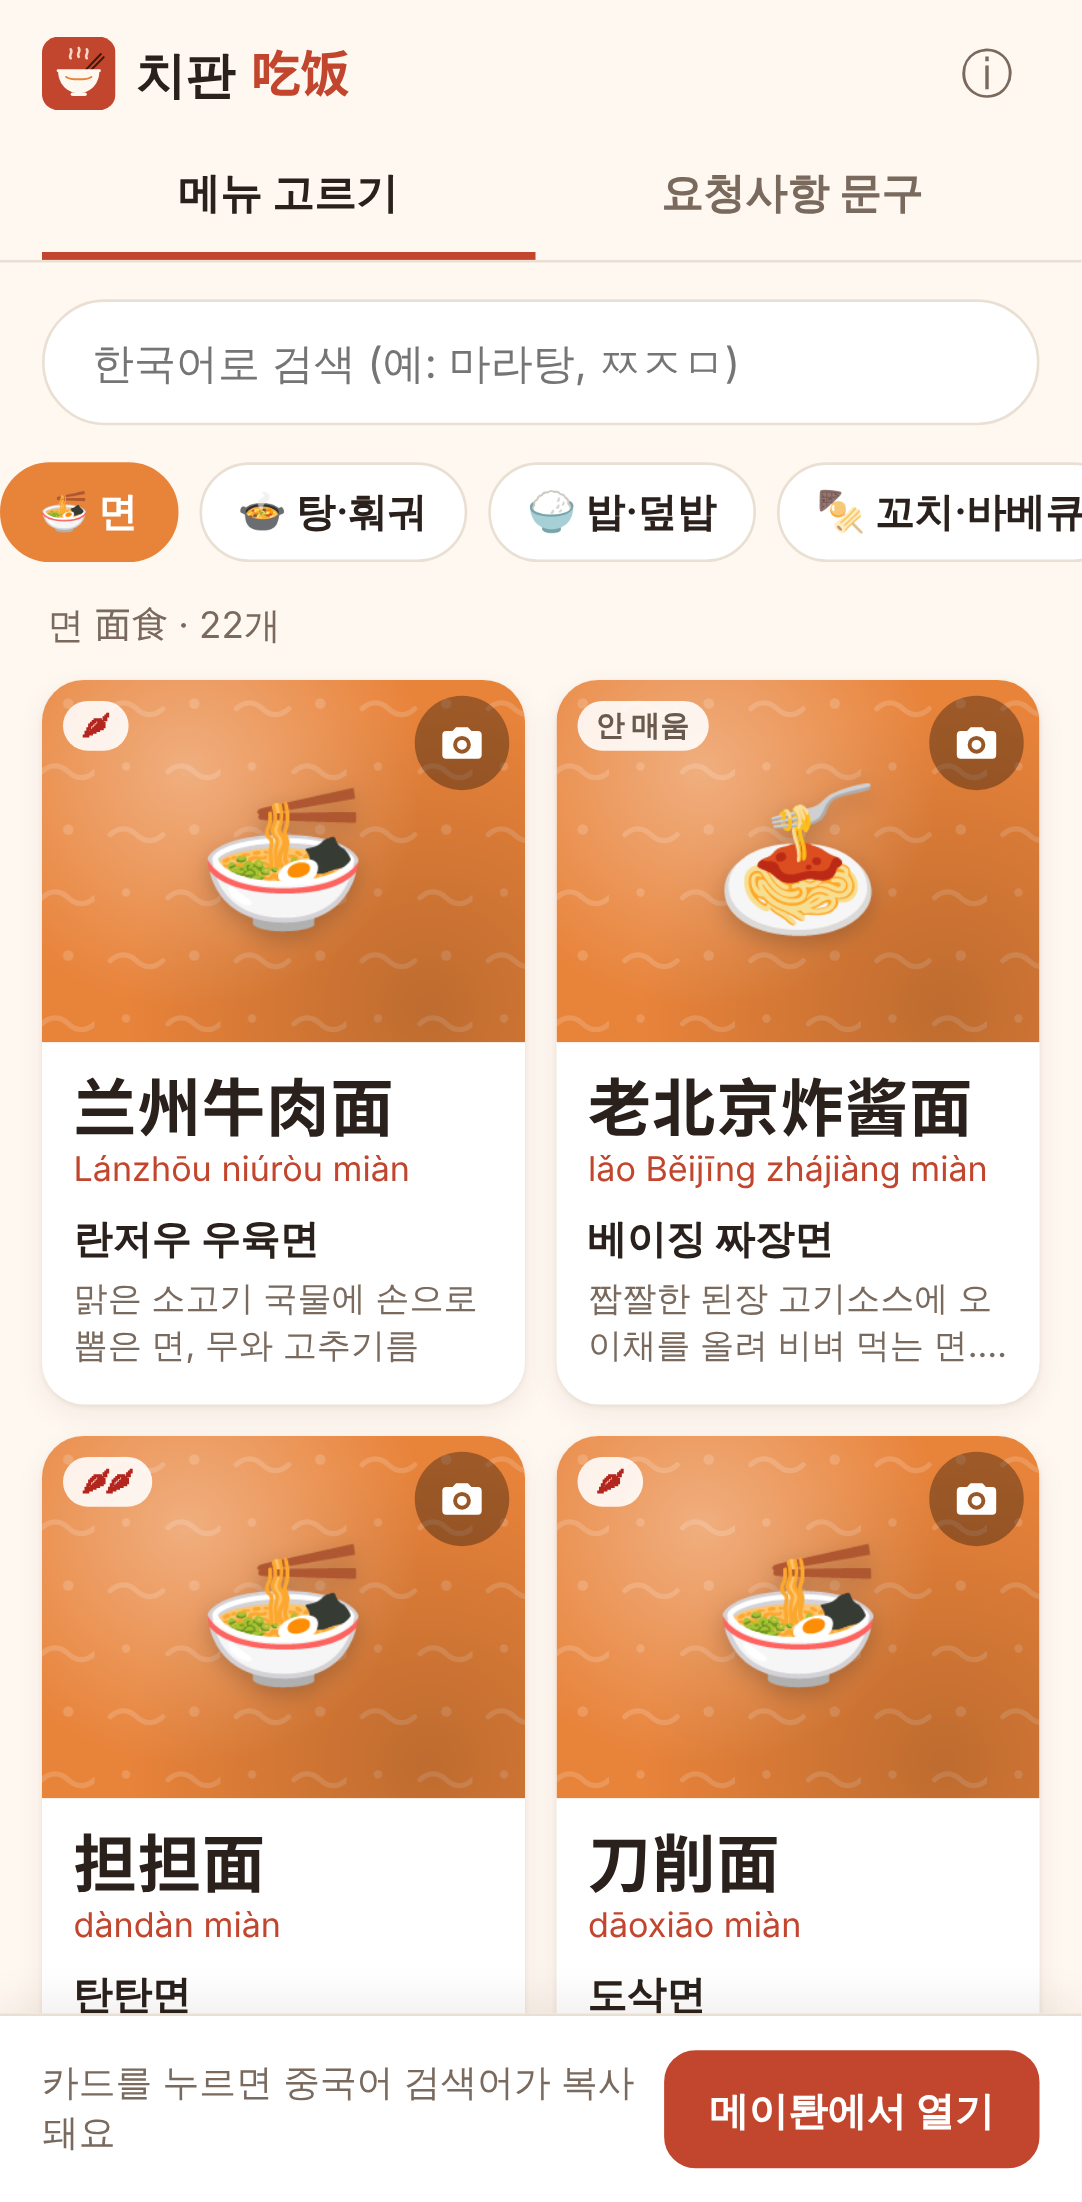
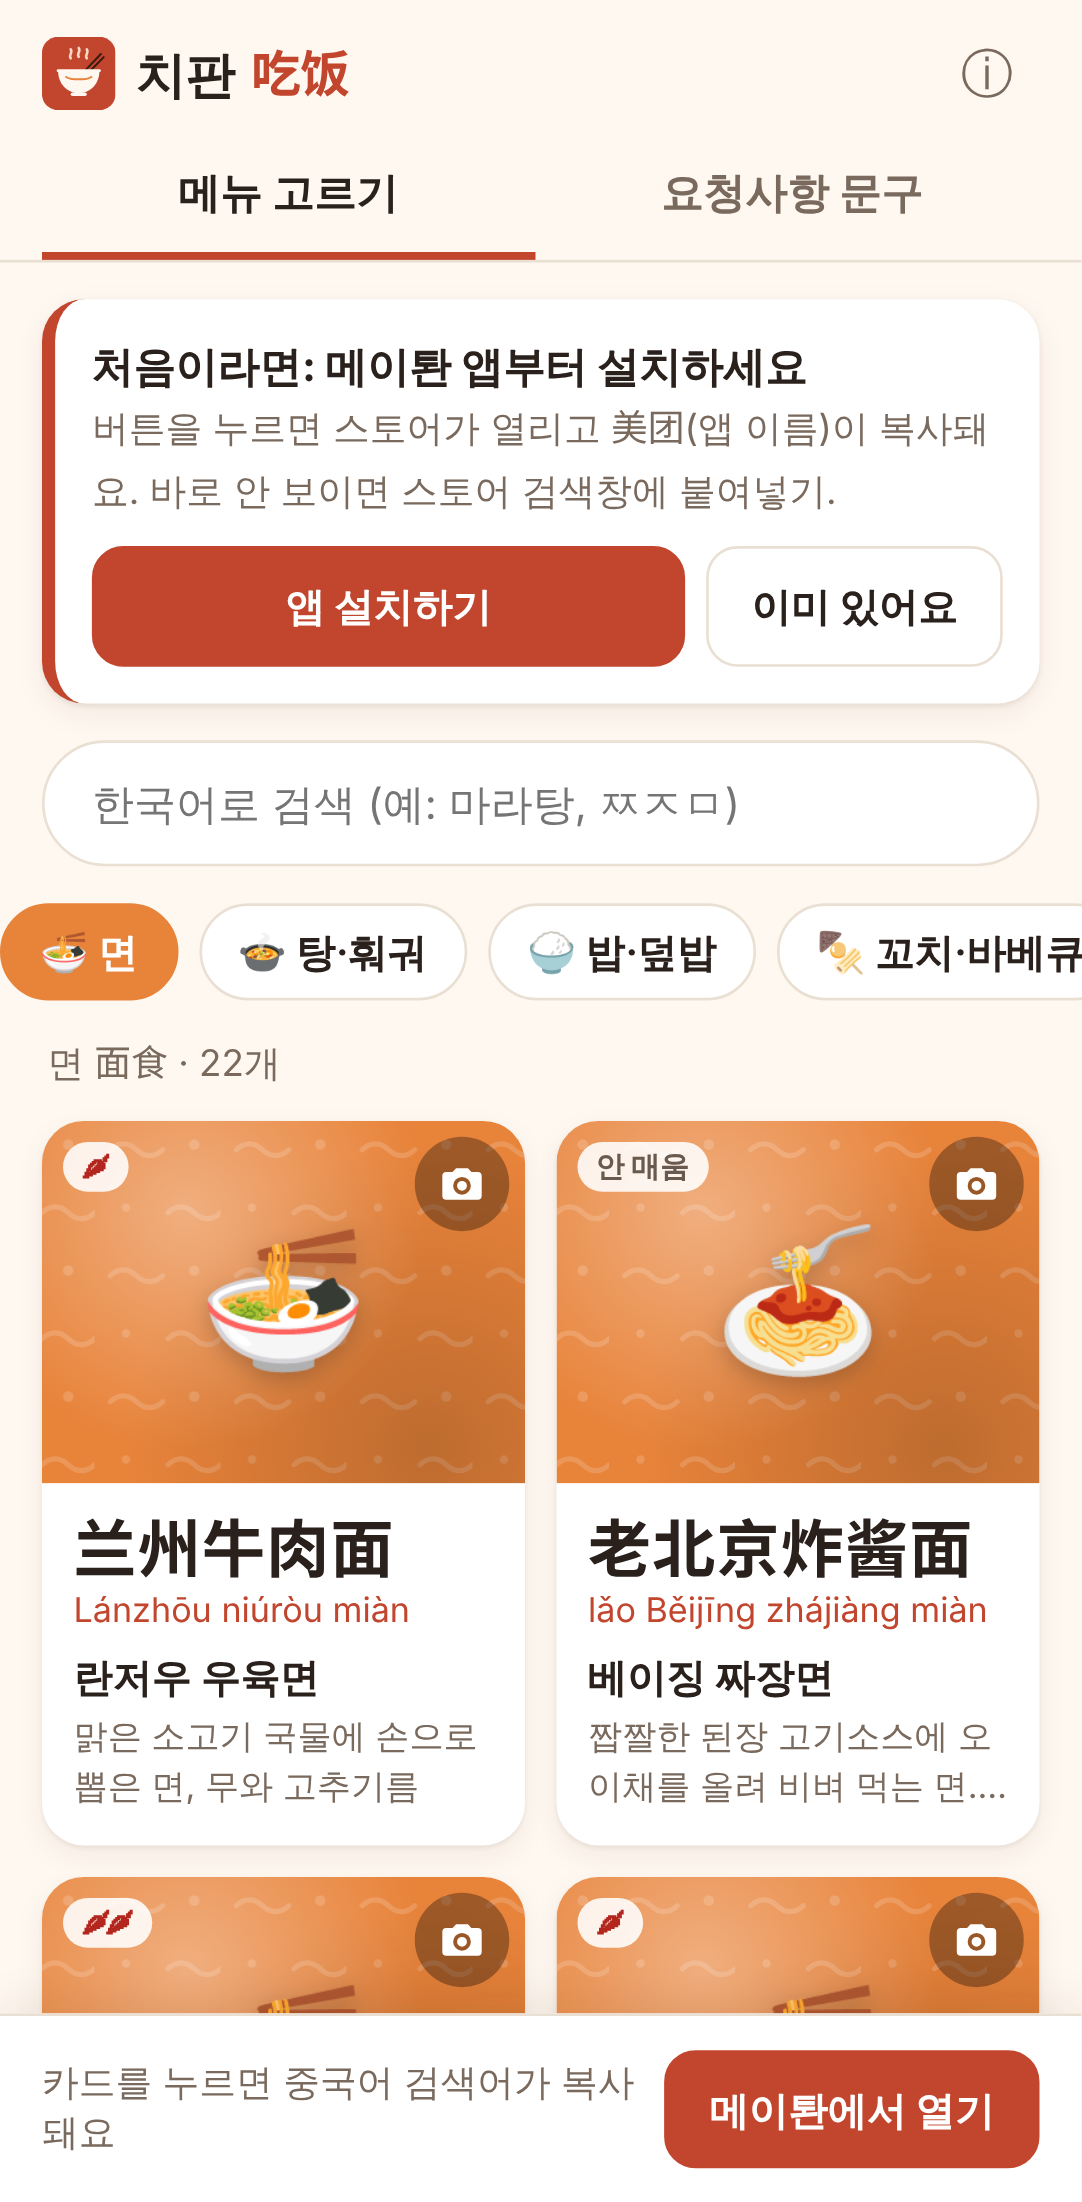
배달앱 설치 안내 추가: 스토어 열기 + 美团 복사
- 첫 화면 설치 카드([앱 설치하기] / [이미 있어요]), 정보 시트에도 설치 버튼
- 안드로이드 market:// → 안 열리면 Play 웹, iOS App Store (링크는 config.js, 미확인 표시)
- 테스트: 설치 흐름, 클립보드, 카드 숨김 유지

Claude-Session: https://claude.ai/code/session_01W2qhPUjUcKVQUNqCzkCZnu

diff --git a/js/open.js b/js/open.js
@@ -10,10 +10,16 @@
     inApp: /MicroMessenger|KAKAOTALK|NAVER\(inapp|Line\/|FBAN|FBAV|Instagram|DingTalk|\bQQ\/|Weibo/i.test(ua)
   };
 
+  // 테스트에서 이동을 가로챌 수 있게 한 곳으로 모은다
+  function go(url) {
+    if (window.__chifanGo) return window.__chifanGo(url);
+    location.href = url;
+  }
+
   function openH5(h5) {
     var w = window.open(h5, '_blank');
     if (w) { try { w.opener = null; } catch (e) {} }
-    else location.href = h5;
+    else go(h5);
   }
 
   function androidIntent(a, h5) {
@@ -21,7 +27,8 @@
       ';S.browser_fallback_url=' + encodeURIComponent(h5) + ';end';
   }
 
-  function iosTry(o, h5) {
+  // url로 이동해 보고, fallbackMs 안에 페이지가 숨겨지지 않으면(앱이 안 열리면) fallback으로
+  function tryThen(url, fallback, ms) {
     var left = false;
     function onHide() { if (document.hidden) left = true; }
     document.addEventListener('visibilitychange', onHide);
@@ -29,20 +36,30 @@
     setTimeout(function () {
       document.removeEventListener('visibilitychange', onHide);
       window.removeEventListener('pagehide', onHide);
-      if (!left && !document.hidden) location.href = h5;
-    }, o.fallbackMs || 1600);
-    location.href = o.url;
+      if (!left && !document.hidden) go(fallback);
+    }, ms || 1600);
+    go(url);
   }
 
   // 어떤 방식으로 열었는지 돌려준다: 'h5' | 'android-intent' | 'ios-scheme'
   function openDelivery() {
     var cfg = window.CHIFAN_CONFIG, h5 = cfg.h5Url, app = cfg.appOpen || {};
     if (!app.enabled || env.inApp) { openH5(h5); return 'h5'; }
-    if (env.android && app.android && app.android.package) { location.href = androidIntent(app.android, h5); return 'android-intent'; }
-    if (env.ios && app.ios && app.ios.url) { iosTry(app.ios, h5); return 'ios-scheme'; }
+    if (env.android && app.android && app.android.package) { go(androidIntent(app.android, h5)); return 'android-intent'; }
+    if (env.ios && app.ios && app.ios.url) { tryThen(app.ios.url, h5, app.ios.fallbackMs); return 'ios-scheme'; }
     openH5(h5);
     return 'h5';
   }
 
-  window.Opener = { env: env, openDelivery: openDelivery, androidIntent: androidIntent };
+  // 배달앱 설치: 안드로이드는 스토어 앱(market://) → 안 되면 Play 웹, iOS는 App Store
+  function openInstall() {
+    var ins = window.CHIFAN_CONFIG.install || {}, a = ins.android || {}, i = ins.ios || {};
+    if (env.ios && i.url) { go(i.url); return 'ios-store'; }
+    if (env.android && a.market && !env.inApp) { tryThen(a.market, a.web, a.fallbackMs); return 'android-market'; }
+    var w = a.web || i.url;
+    if (w) openH5(w);
+    return 'web-store';
+  }
+
+  window.Opener = { env: env, openDelivery: openDelivery, openInstall: openInstall, androidIntent: androidIntent };
 })();

diff --git a/js/app.js b/js/app.js
@@ -89,6 +89,15 @@
     toast(msg, 3200);
   }
 
+  function openInstall() {
+    var term = (window.CHIFAN_CONFIG.install || {}).searchTerm || '美团';
+    copyText(term).then(function (ok) {
+      Opener.openInstall();
+      toast(ok ? '복사됨: <b lang="zh-CN">' + esc(term) + '</b> · 스토어에서 바로 안 보이면 검색창에 붙여넣기'
+               : '스토어에서 <b lang="zh-CN">' + esc(term) + '</b>를 검색하세요', 4000);
+    });
+  }
+
   // ---------- 검색 ----------
   function score(f, q, qpy) {
     var best = -1;
@@ -250,6 +259,10 @@
         '<li>검색창을 길게 눌러 <b>붙여넣기</b> 하면 끝.</li>' +
       '</ol>' +
       '<p>' + openState + '</p>' +
+      '<h3>배달앱이 없다면</h3>' +
+      '<p>먼저 메이퇀 앱을 설치하세요. 아이폰은 중국 지역 Apple ID가 있어야 보일 수 있어요. ' +
+      '설치 전에는 [메이퇀에서 열기]가 웹페이지로 열려요.</p>' +
+      '<div class="row"><button class="btn" data-act="installApp">메이퇀 앱 설치하기</button></div>' +
       '<h3>홈 화면에 추가</h3>' +
       '<p>안드로이드 크롬: 오른쪽 위 ⋮ → <b>홈 화면에 추가</b><br>아이폰 사파리: 공유 버튼 → <b>홈 화면에 추가</b><br>한 번 열어 두면 인터넷 없이도 메뉴를 볼 수 있어요.</p>' +
       (S.installEvt ? '<div class="row"><button class="btn primary" data-act="install">지금 설치하기</button></div>' : '') +
@@ -367,6 +380,8 @@
     });
 
     $('#openBtn').addEventListener('click', openApp);
+    $('#installBtn').addEventListener('click', openInstall);
+    $('#setupDone').addEventListener('click', function () { LS.set('setupDone', true); $('#setupCard').hidden = true; });
     $('#aboutBtn').addEventListener('click', showAbout);
     $('#sheetClose').addEventListener('click', closeSheet);
     $('#sheetBack').addEventListener('click', closeSheet);
@@ -382,6 +397,8 @@
       else if (act === 'pick') pickPhoto(false);
       else if (act === 'rmphoto' && f) {
         Photos.remove(f.id).then(function () { delete S.photos[f.id]; showFood(f); renderGrid(); toast('사진을 지웠어요'); });
+      } else if (act === 'installApp') {
+        openInstall();
       } else if (act === 'install' && S.installEvt) {
         S.installEvt.prompt(); S.installEvt = null; closeSheet();
       }
@@ -431,6 +448,7 @@
   function init() {
     bind();
     inAppBanner();
+    $('#setupCard').hidden = !!LS.get('setupDone', false);
     Promise.all([loadJSON('data/categories.json'), loadJSON('data/foods.json'), loadJSON('data/requests.json')])
       .then(function (r) {
         S.cats = r[0]; S.foods = r[1]; S.req = r[2];

diff --git a/tests/screens.js b/tests/screens.js
@@ -27,6 +27,8 @@ async function run(browser, name, dev) {
   await ctx.addInitScript(() => {
     window.__opened = [];
     window.open = (u) => { window.__opened.push(u); return {}; };
+    window.__went = [];
+    window.__chifanGo = (u) => { window.__went.push(u); };
   });
   const page = await ctx.newPage();
   const errors = [];
@@ -37,6 +39,22 @@ async function run(browser, name, dev) {
   await page.goto(BASE);
   await page.waitForSelector('.card');
   await shot('01-home');
+
+  // 0) 첫 실행: 배달앱 설치 안내 → 스토어 열기 + '美团' 복사, [이미 있어요]로 숨김
+  assert.ok(await page.isVisible('#setupCard'));
+  await page.click('#installBtn');
+  await page.waitForSelector('.toast.is-on');
+  assert.strictEqual(await page.evaluate(() => navigator.clipboard.readText()), '美团');
+  if (name === 'pixel7') {
+    assert.deepStrictEqual(await page.evaluate(() => window.__went), ['market://details?id=com.sankuai.meituan']);
+    await page.waitForTimeout(1800); // 스토어 앱이 안 열리면 Play 웹으로
+    assert.deepStrictEqual(await page.evaluate(() => window.__went.slice(1)), ['https://play.google.com/store/apps/details?id=com.sankuai.meituan']);
+  } else {
+    assert.deepStrictEqual(await page.evaluate(() => window.__went), ['https://apps.apple.com/cn/app/id423084029']);
+  }
+  await shot('00-install');
+  await page.click('#setupDone');
+  assert.ok(!(await page.isVisible('#setupCard')));
 
   // 1) 카드 탭 → 자동 복사 + 토스트
   await page.click('[data-cat="soup"]');
@@ -83,6 +101,7 @@ async function run(browser, name, dev) {
   await shot('05-photo');
   await page.reload();
   await page.waitForSelector('.card[data-id="dandanmian"] .art.has-photo'); // 새로고침 뒤에도 남아 있음
+  assert.ok(!(await page.isVisible('#setupCard')), '설치 안내는 [이미 있어요] 뒤 다시 안 나옴');
 
   // 5) 요청사항 문구
   await page.click('.tab[data-view="memo"]');
@@ -122,6 +141,7 @@ async function inApp(browser) {
   await page.goto(BASE);
   await page.waitForSelector('.card');
   assert.ok(await page.isVisible('#inappBanner'));
+  await page.click('#setupDone');
   await page.screenshot({ path: path.join(out, 'pixel7-08-inapp.png') });
   await ctx.close();
   console.log('✓ 인앱 브라우저 안내');

diff --git a/tests/check-data.js b/tests/check-data.js
@@ -27,8 +27,8 @@ for (const r of req.items) {
 if (foods.length < 100 || foods.length > 200) errs.push(`음식 개수 ${foods.length} (100~200 목표)`);
 for (const c of cats) if (!foods.some(f => f.cat === c.id)) errs.push(`빈 카테고리 ${c.id}`);
 
-// 외부 주소: 배달 H5 주소(config.js) 말고는 없어야 함 (중국에서 막히는 CDN·폰트 방지)
-const allow = [/^https:\/\/h5\.waimai\.meituan\.com\//, /^http:\/\/www\.w3\.org\/2000\/svg/];
+// 외부 주소: 배달 H5·스토어 주소(config.js) 말고는 없어야 함 (중국에서 막히는 CDN·폰트 방지)
+const allow = [/^https:\/\/h5\.waimai\.meituan\.com\//, /^https:\/\/play\.google\.com\/store\/apps\/details/, /^https:\/\/apps\.apple\.com\/cn\/app\//, /^http:\/\/www\.w3\.org\/2000\/svg/];
 const walk = d => fs.readdirSync(d, { withFileTypes: true }).flatMap(e =>
   e.name.startsWith('.') || ['tests', 'node_modules', 'screenshots'].includes(e.name) ? [] :
   e.isDirectory() ? walk(path.join(d, e.name)) : [path.join(d, e.name)]);

diff --git a/js/config.js b/js/config.js
@@ -20,5 +20,18 @@ window.CHIFAN_CONFIG = {
       url: 'imeituan://',        // 미확인
       fallbackMs: 1600           // 이 시간 안에 페이지가 숨겨지지 않으면 H5로
     }
+  },
+
+  // 배달앱 설치 링크. 스토어 링크가 안 맞으면 사용자가 searchTerm을 스토어 검색창에 붙여넣는다.
+  install: {
+    searchTerm: '美团',          // 설치 버튼을 누르면 함께 복사됨
+    android: {
+      market: 'market://details?id=com.sankuai.meituan',  // 패키지명 미확인. 중국 폰 제조사 스토어도 market://을 받음
+      web: 'https://play.google.com/store/apps/details?id=com.sankuai.meituan', // market://이 안 열릴 때
+      fallbackMs: 1600
+    },
+    ios: {
+      url: 'https://apps.apple.com/cn/app/id423084029'    // 앱 ID 미확인. 중국 지역 Apple ID가 필요할 수 있음
+    }
   }
 };

diff --git a/index.html b/index.html
@@ -35,6 +35,16 @@
 
 <main>
   <section id="view-menu" class="view">
+    <div class="setup" id="setupCard" hidden>
+      <div class="setup-text">
+        <b>처음이라면: 메이퇀 앱부터 설치하세요</b>
+        <span>버튼을 누르면 스토어가 열리고 <span lang="zh-CN">美团</span>(앱 이름)이 복사돼요. 바로 안 보이면 스토어 검색창에 붙여넣기.</span>
+      </div>
+      <div class="setup-actions">
+        <button class="btn primary" id="installBtn">앱 설치하기</button>
+        <button class="btn" id="setupDone">이미 있어요</button>
+      </div>
+    </div>
     <div class="searchbar">
       <input id="q" type="search" inputmode="search" autocomplete="off"
              placeholder="한국어로 검색 (예: 마라탕, ㅉㅈㅁ)" aria-label="메뉴 검색">

diff --git a/css/style.css b/css/style.css
@@ -240,3 +240,13 @@ body.no-dock .toast { bottom: calc(env(safe-area-inset-bottom) + 24px); }
 @media (prefers-reduced-motion: reduce) {
   * { transition: none !important; }
 }
+
+/* 첫 실행: 배달앱 설치 안내 */
+.setup {
+  margin-top: 14px; padding: 14px; border-radius: 16px; background: var(--surface); box-shadow: var(--shadow);
+  border-left: 5px solid var(--accent);
+}
+.setup-text b { display: block; font-size: 16px; }
+.setup-text span { font-size: 14px; color: var(--muted); }
+.setup-actions { display: flex; gap: 8px; margin-top: 10px; }
+.setup-actions .btn.primary { flex: 1; }

diff --git a/sw.js b/sw.js
@@ -1,5 +1,5 @@
 // 오프라인용 서비스워커. 파일을 바꾸면 VERSION을 올릴 것.
-var VERSION = 'chifan-v1';
+var VERSION = 'chifan-v2';
 var CORE = [
   './',
   'index.html',

diff --git a/README.md b/README.md
@@ -21,6 +21,7 @@
 
 | 기능 | 내용 |
 |---|---|
+| 앱 설치 안내 | 첫 화면 위 카드: **[앱 설치하기]** → 스토어 열기 + `美团` 복사(스토어 검색창에 붙여넣기용). **[이미 있어요]**로 숨김. 정보(ⓘ)에도 설치 버튼 |
 | 메뉴 고르기 | 카테고리 10개 탭 → 카드 그리드. 카드에 중국어(크게)·병음·한국어 이름·한 줄 설명·맵기 |
 | 검색어 복사 | 카드를 누르면 중국어 검색어 자동 복사 + “복사됨: 麻辣烫” 토스트. 하단 바에 마지막 검색어 표시 |
 | 앱 열기 | 하단 **[메이퇀에서 열기]** 버튼. 사용자가 누를 때만 연다. 지금은 **H5 페이지만** 연다(아래 참고) |
@@ -62,6 +63,10 @@
 | 안드로이드 패키지명 | `com.sankuai.meituan` | **미확인 (추정)** | — |
 | 안드로이드 intent scheme / path | `imeituan` / (빈칸) | **미확인 (추정)** | — |
 | iOS URL 스킴 | `imeituan://` | **미확인 (추정)** | — |
+| 설치: 안드로이드 스토어 | `market://details?id=com.sankuai.meituan` → 1.6초 안에 안 열리면 Google Play 웹 | **미확인** (패키지명 추정) | — |
+| 설치: iOS App Store | `https://apps.apple.com/cn/app/id423084029` | **미확인** (앱 ID 추정, 중국 지역 Apple ID 필요할 수 있음) | — |
+
+설치 링크가 틀려도 `美团`이 복사돼 있으니 스토어 검색창에 붙여넣으면 된다. Google Play는 중국 안에서 안 열리고, 중국 폰(샤오미·화웨이 등)은 `market://`을 자기 스토어로 연다.
 
 실제 폰에서 확인되면 `js/config.js` 값을 고치고 `enabled: true`로 바꾼 뒤, 이 표에 날짜와 기기를 적는다.
 (메이퇀 페이지나 앱 코드를 분석해서 알아내지 않는다. 폰에서 직접 확인한다.)
@@ -154,7 +159,7 @@ node tests/make-icons.js             # icons/*.svg → PNG
 
 ## 다음 할 일
 
-- [ ] 실제 폰(안드로이드 / 아이폰)에서 메이퇀 앱 패키지명·스킴 확인 → `js/config.js` 반영, 위 표에 날짜 기록
+- [ ] 실제 폰(안드로이드 / 아이폰)에서 메이퇀 앱 패키지명·스킴·스토어 링크 확인 → `js/config.js` 반영, 위 표에 날짜 기록
 - [ ] 중국 현지에서 github.io 접속 속도·오프라인 동작 확인
 - [ ] ‘검증 필요’ 11개 항목을 실제 배달앱 검색 결과로 확인·수정, 나머지 표기도 샘플 검증
 - [ ] 직접 찍은 사진을 `img/<id>.jpg`로 추가
